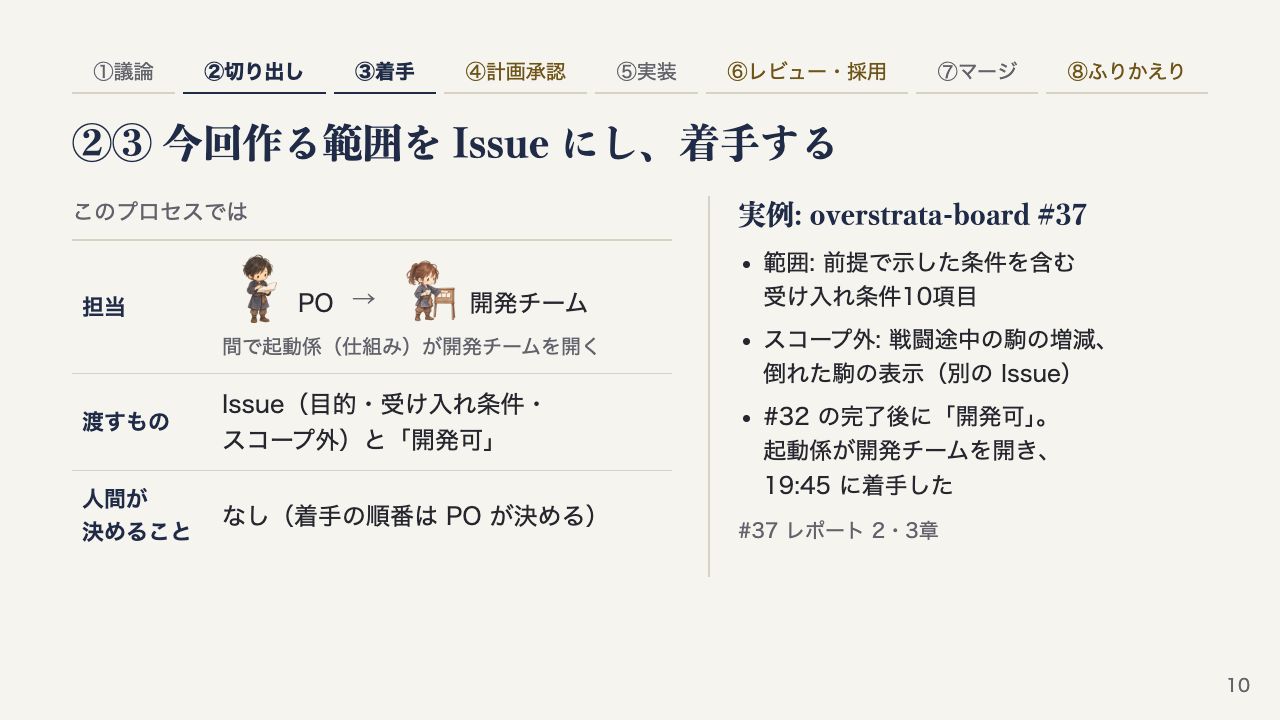
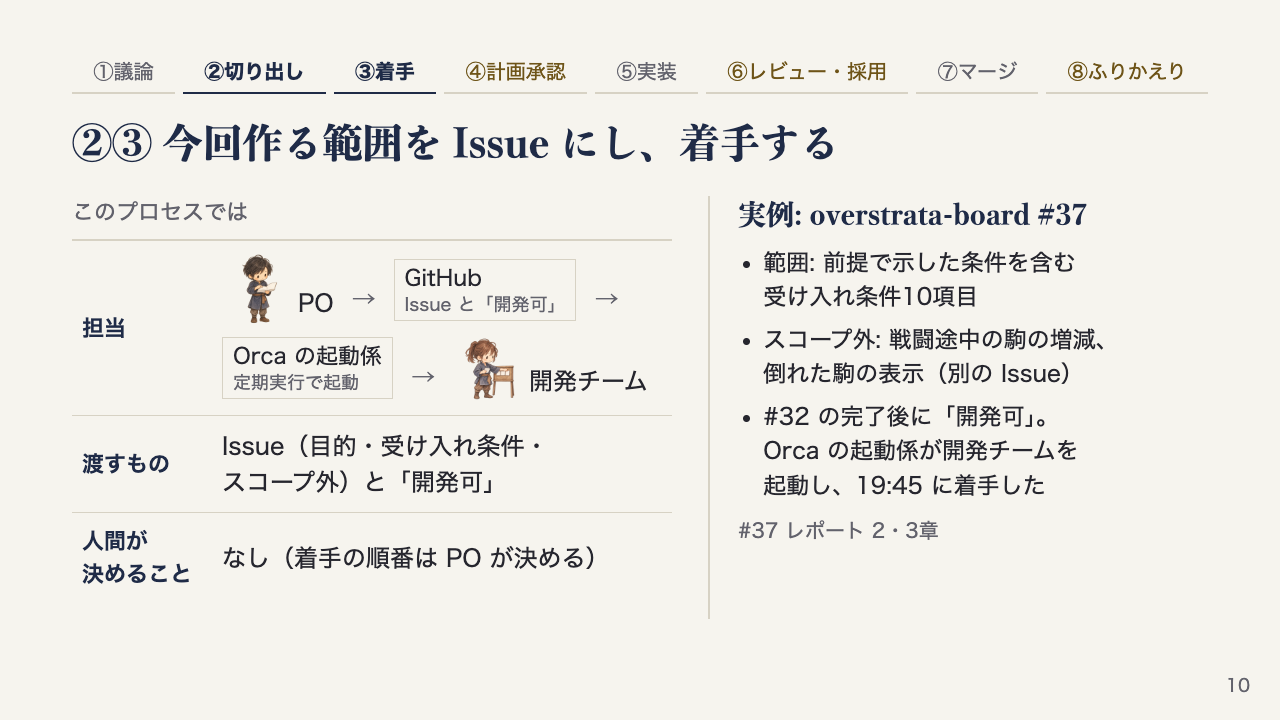
docs: show GitHub and Orca launcher between PO and dev team on slide 10 (#17)

diff --git a/themes/paper.css b/themes/paper.css
@@ -293,6 +293,15 @@ table.duty tr.decide td { font-size: 26px; }
 .actor-name { padding-bottom: 4px; }
 .actors .arrow { font-size: 24px; padding: 0 0 8px; align-self: flex-end; }
 .actors .meta { flex-basis: 100%; font-size: 20px; }
+/* 担当の行で人物にしない仕組み（GitHub・Orca の起動係）を文字の枠で示す。2行目は補足 */
+.actor-box {
+  border: 1px solid var(--rule);
+  padding: 4px 10px;
+  margin-bottom: 4px;
+  font-size: 22px;
+  line-height: 1.3;
+}
+.actor-box span { display: block; font-size: 18px; color: var(--muted); }
 /* 判断の行では挿絵と文字を同じ行に並べ、文字の側で折り返す */
 tr.decide .actors { flex-wrap: nowrap; align-items: center; }
 .decisions li + li { margin-top: 8px; }

diff --git a/slides/index.md b/slides/index.md
@@ -402,8 +402,11 @@ overstrata-board の実例:
       <tr><th>担当</th><td><div class="actors">
         <div class="actor"><img class="actor-figure" src="assets/roles/po.png" alt="AI エージェントの PO を表す、開いた冊子を読むデフォルメした人物"><span class="actor-name">PO</span></div>
         <span class="arrow">→</span>
+        <div class="actor-box">GitHub<span>Issue と「開発可」</span></div>
+        <span class="arrow">→</span>
+        <div class="actor-box">Orca の起動係<span>定期実行で起動</span></div>
+        <span class="arrow">→</span>
         <div class="actor"><img class="actor-figure" src="assets/roles/team.png" alt="AI エージェントの開発チームを表す、板に付箋を順に貼るデフォルメした人物"><span class="actor-name">開発チーム</span></div>
-        <p class="meta">間で起動係（仕組み）が開発チームを開く</p>
       </div></td></tr>
       <tr><th>渡すもの</th><td>Issue（目的・受け入れ条件・<br>スコープ外）と「開発可」</td></tr>
       <tr><th>人間が<br>決めること</th><td>なし（着手の順番は PO が決める）</td></tr>
@@ -414,7 +417,7 @@ overstrata-board の実例:
     <ul>
       <li>範囲: 前提で示した条件を含む<br>受け入れ条件10項目</li>
       <li>スコープ外: 戦闘途中の駒の増減、<br>倒れた駒の表示（別の Issue）</li>
-      <li>#32 の完了後に「開発可」。<br>起動係が開発チームを開き、<br>19:45 に着手した</li>
+      <li>#32 の完了後に「開発可」。<br>Orca の起動係が開発チームを<br>起動し、19:45 に着手した</li>
     </ul>
     <p class="meta">#37 レポート 2・3章</p>
   </div>
@@ -423,13 +426,14 @@ overstrata-board の実例:
 <!--
 【話すこと】
 ② 切り出しでは、PO が spec.md から今すぐ作る部分を Issue にします。目的・受け入れ条件・スコープ外を書き、PR 1本で終わる大きさにします。
-着手してよい Issue に PO が「開発可」のラベルを付けると、③ 着手です。Orca の定期実行の「起動係」が、動いている開発チームがいないときだけ、開発チームを開きます。起動係は3つの役割に含めない仕組みなので、人物の絵は付けていません。
+PO は GitHub に Issue を書き、着手してよい Issue に「開発可」のラベルを付けます。担当の行の真ん中の GitHub の枠がこれです。
+すると ③ 着手です。Orca の定期実行の「起動係」が、「開発可」の Issue があり、動いている開発チームがいないときだけ、開発チームを起動します。担当の行の「Orca の起動係」の枠がこれです。GitHub と起動係は3つの役割に含めない仕組みなので、人物の絵ではなく文字の枠で示しています。
 ここでも人間の判断はありません。
 
 【実例】
 #37 の範囲は、前提のページで抜き出した条件を含む、受け入れ条件10項目です。
 戦闘の途中で駒を増やしたり減らしたりする機能（#33）や、倒れた駒の表示（#34）はスコープ外として別の Issue に分けています。
-前提の #32 が取り込まれた後、PO が「開発可」を付けました。起動係が「着手中」にして開発チームを開き、2026-10-23 の 19:45 に着手しています。
+前提の #32 が取り込まれた後、PO が GitHub の #37 に「開発可」を付けました。Orca の起動係が「着手中」にして開発チームを起動し、2026-10-23 の 19:45 に着手しています。
 
 【時間】約40秒（見積もり）
 

diff --git a/docs/design.md b/docs/design.md
@@ -109,6 +109,7 @@ paginate: true
 - **左「このプロセスでは」**: 元テンプレートの一般的な手順。`<table class="duty">` の3行（担当・渡すもの・人間が決めること）。人間の3つの判断（計画承認・採用判断・改善の採否）の行だけ `<tr class="decide">` にし、文字と上下の罫線を金にする。判断がないページは「なし」と通常の色で書く
 - **右「実例: …」**: 別のプロジェクト（overstrata-board #37）の実例。左の罫線で一般の説明と分け、見出しに「実例」と書く。版や記録の節を `.meta` に書く
 - **担当の人物**: `<div class="actors">` の中に `<div class="actor">`（`<img class="actor-figure">` 72×72px と `<span class="actor-name">`）。開発者は `actor-figure` を2つ続ける。人間（レナ・ヨナ）は `<img class="people-small">`（120×80px、3:2）。金色を役割の人物の行に使わないため、人間の挿絵は担当の行か判断の行（`decide`）に置き、役割の人物は判断の行に置かない
+- **人物にしない仕組み**: 3つの役割に含めない仕組み（GitHub・Orca の起動係）は、担当の行に `<div class="actor-box">` の文字の枠で置く（1行目に名前、`<span>` に短い補足）。人物の絵やロゴは使わない（10枚目: PO → GitHub（Issue と「開発可」）→ Orca の起動係（定期実行で起動）→ 開発チーム。Issue #17 で追加）
 - **比較画像**: `<div class="shots">` に `<div class="shot">`（`<img>` と説明 `<p>`、版 `<p class="ver">`）。画像の中の文字は読ませず、違いを説明文で書く
 - **スマホ幅の画面**: 縦長の画面の切り抜きは `<div class="shots phone">` にする（16:9 の枠に押し込まず、縦横比のまま高さ 270px までで収める）。本文の下に小さく置くときは `shots phone short`（高さ 200px まで、説明を画像の右に並べる。説明と版は `<div>` で包む。7枚目）。比較画像を大きく見せるページだけ、右の列を `<div class="example wide">`（660px）にする（12枚目。各画像は幅約307px、左の表は約440px）。Issue #17 で追加
 - **往復の表**: 1ページに6行の表が要るときは `<table class="duty loop">`。高さに収めるため 22px・上下 9px の余白にしている（13枚目。本文の下端の上限 664px に対し、Orca のブラウザで測ったページ内の下端は 720px 基準で 636px。Issue #17 の前提追加後）
